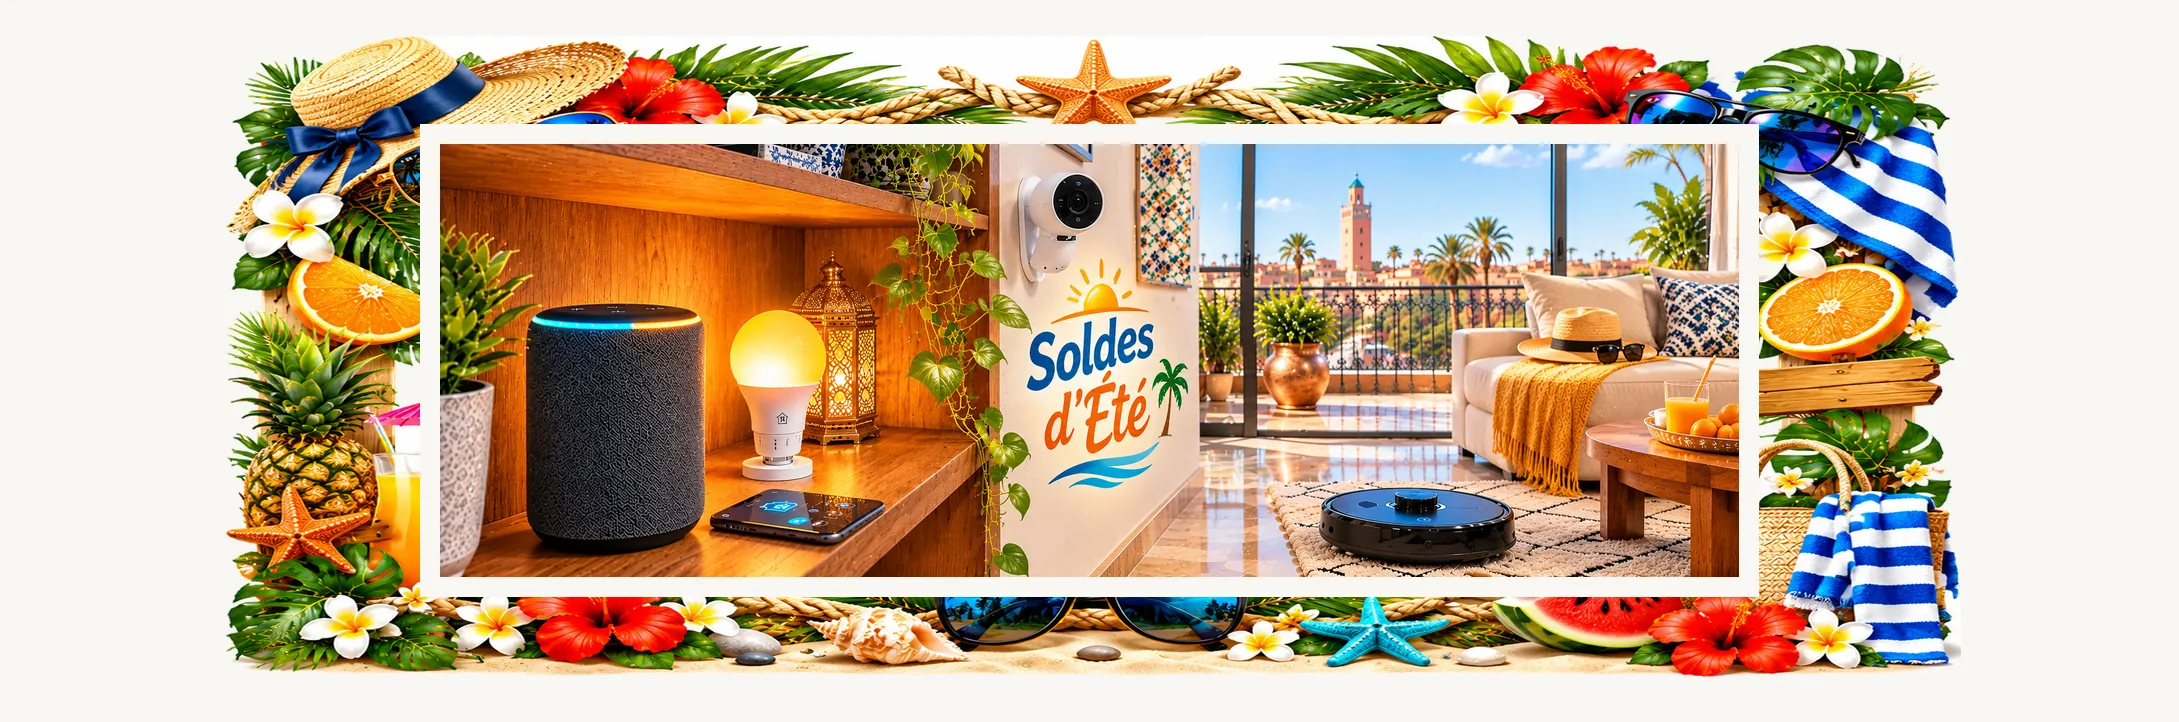
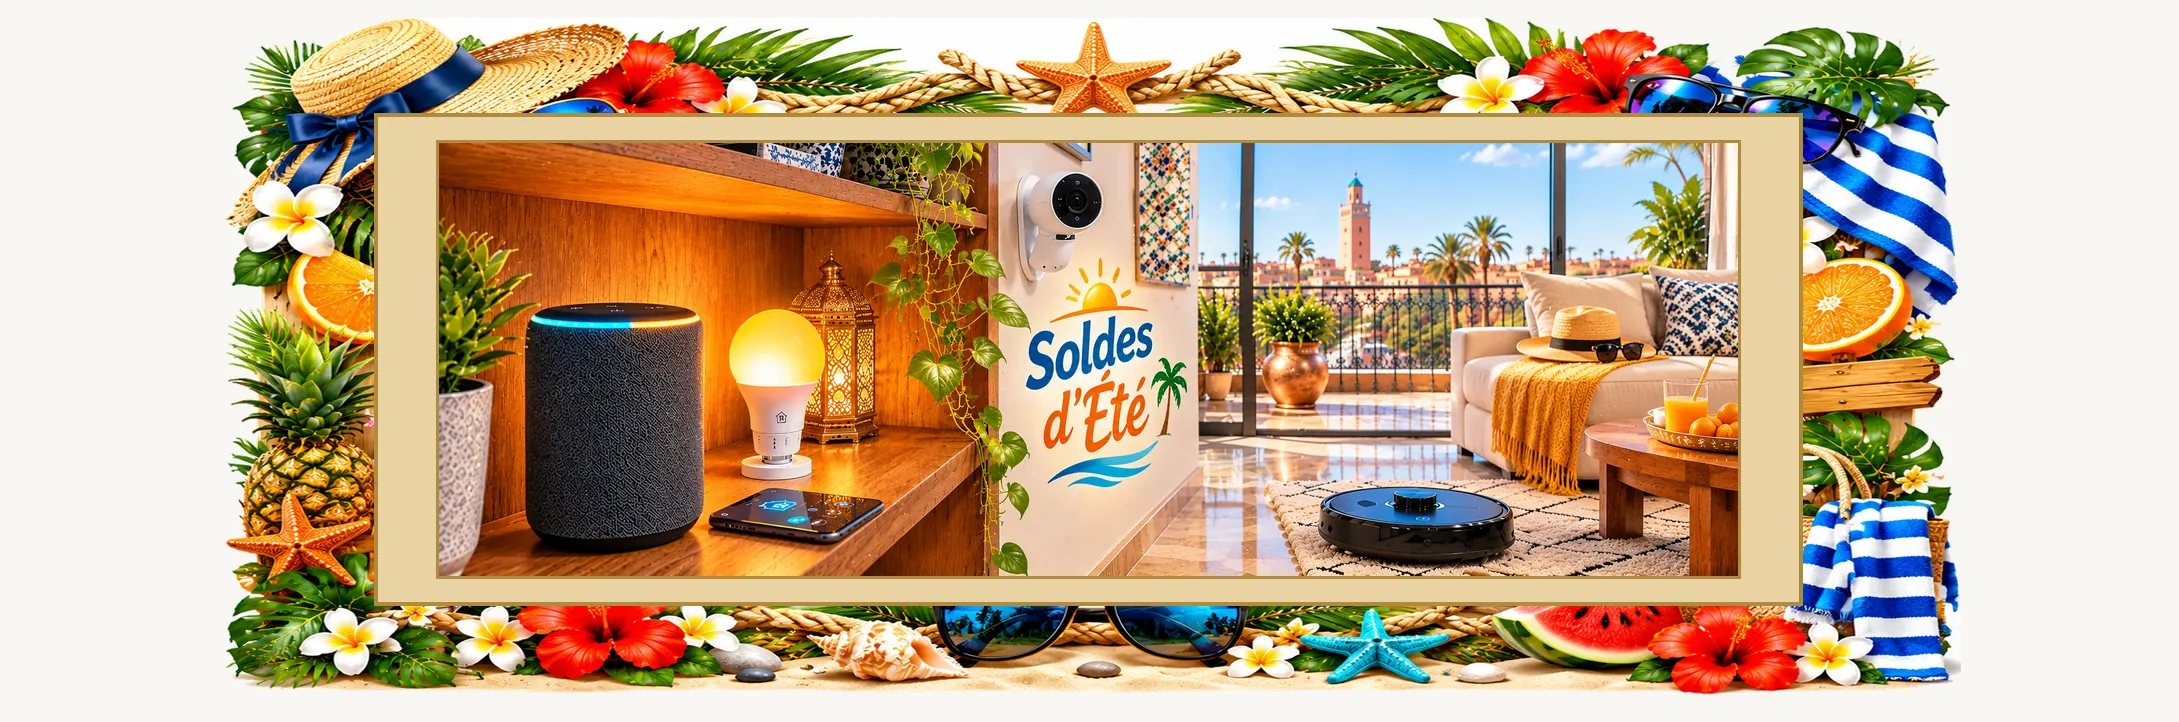
fix(events): passe-partout dore entre la photo et le cadre
- photo 60 % centree, cadre 80 % x 95 %

- passe-partout dore large + biseau autour de la photo : separation nette, aucune superposition

- ouverture du cadre videe au niveau du passe-partout

- fond creme a l'exterieur, aucun voile, banniere 2179x722

diff --git a/js/events-calendar.js b/js/events-calendar.js
@@ -38,7 +38,7 @@ export const THEME_CONFIG_PATH = { collection: "config", doc: "theme" };
  * l'afficher pendant 24 h après un remplacement de fichier.
  * À INCRÉMENTER dès que les WebP sont régénérés.
  */
-export const ASSETS_VERSION = "5";
+export const ASSETS_VERSION = "6";
 
 /**
  * URL d'un visuel d'événement, avec cache-busting.
@@ -348,9 +348,9 @@ function swapHero(event) {
   if (!original) return;
   const img = original.el;
   /* Les composites d'événement font 2179x722 (ancienne taille de
-     newphoto) : la photo occupe 60 % au centre, le cadre 80 % x 90 %
-     autour, avec une marge visible. On met à jour width/height pour
-     réserver la bonne hauteur avant le chargement (zéro CLS). */
+     newphoto) : photo 60 %, passe-partout doré, cadre 80 % x 95 %
+     autour. On met à jour width/height pour réserver la bonne hauteur
+     avant le chargement (zéro CLS). */
   img.setAttribute("src", eventImageUrl(event));
   img.setAttribute("width", "2179");
   img.setAttribute("height", "722");

diff --git a/vendor-login.html b/vendor-login.html
@@ -14,7 +14,7 @@
   <link href="https://fonts.googleapis.com/css2?family=Playfair+Display:wght@400;700&family=Inter:wght@400;500;700&family=Cairo:wght@400;600;700&family=Amiri:wght@400;700&display=swap" rel="stylesheet">
   <link rel="stylesheet" href="/css/style.081f870d.css">
   <link rel="stylesheet" href="/css/style-patches.7d81b9bd.css">
-    <link rel="stylesheet" href="/css/events.4ac8d19c.css">
+    <link rel="stylesheet" href="/css/events.d352d348.css">
   <style>
     body.vendor-login-page{min-height:100dvh;margin:0;background:var(--bg);color:var(--text);font-family:var(--font-primary);display:flex;flex-direction:column}
     .login-topbar{height:72px;display:flex;align-items:center;justify-content:space-between;gap:1rem;padding:0 clamp(1rem,5vw,4rem);background:var(--bg-card);border-bottom:1px solid var(--border)}

diff --git a/css/events.d352d348.css b/css/events.d352d348.css
@@ -29,7 +29,7 @@ html[data-event] .newphoto-banner-wrapper {
    La bannière conserve l'ancienne taille de newphoto (2179x722).
    La photo (default ou événement) occupe 60 % de la bannière et est
    centrée. Les bannières d'événement sont des composites 2179x722 :
-   photo 60 % + cadre 80 % x 90 %, avec 20 px de marge entre les deux.
+   photo 60 %, passe-partout doré, cadre 80 % x 95 % autour.
    Rien n'est superposé.
    ============================================================ */
 .newphoto-banner-wrapper {

diff --git a/events.css b/events.css
@@ -29,7 +29,7 @@ html[data-event] .newphoto-banner-wrapper {
    La bannière conserve l'ancienne taille de newphoto (2179x722).
    La photo (default ou événement) occupe 60 % de la bannière et est
    centrée. Les bannières d'événement sont des composites 2179x722 :
-   photo 60 % + cadre 80 % x 90 %, avec 20 px de marge entre les deux.
+   photo 60 %, passe-partout doré, cadre 80 % x 95 % autour.
    Rien n'est superposé.
    ============================================================ */
 .newphoto-banner-wrapper {

diff --git a/produit.html b/produit.html
@@ -53,7 +53,7 @@
 
     <link rel="stylesheet" href="/css/style.081f870d.css">
     <link rel="stylesheet" href="/css/style-patches.7d81b9bd.css">
-    <link rel="stylesheet" href="/css/events.4ac8d19c.css">
+    <link rel="stylesheet" href="/css/events.d352d348.css">
     <script src="/translations.js"></script>
 
     <!-- Clés i18n complémentaires (product-detail, guide des tailles, avis).

diff --git a/inscription-vendeur.html b/inscription-vendeur.html
@@ -34,7 +34,7 @@
 
     <link rel="stylesheet" href="/css/style.081f870d.css">
     <link rel="stylesheet" href="/css/style-patches.7d81b9bd.css">
-    <link rel="stylesheet" href="/css/events.4ac8d19c.css">
+    <link rel="stylesheet" href="/css/events.d352d348.css">
     <link rel="stylesheet" href="/vendor-style.css">
 
     <!-- Fallback critique (indépendant de vendor-style.css) -->

diff --git a/vendor/dashboard.html b/vendor/dashboard.html
@@ -33,7 +33,7 @@
 
     <link rel="stylesheet" href="/css/style.081f870d.css">
     <link rel="stylesheet" href="/css/style-patches.7d81b9bd.css">
-    <link rel="stylesheet" href="/css/events.4ac8d19c.css">
+    <link rel="stylesheet" href="/css/events.d352d348.css">
     <link rel="stylesheet" href="/vendor-style.css">
 
     <!-- Fallback critique (indépendant de vendor-style.css) -->

diff --git a/cgu-acheteur.html b/cgu-acheteur.html
@@ -28,7 +28,7 @@
 
     <link rel="stylesheet" href="/css/style.081f870d.css">
     <link rel="stylesheet" href="/css/style-patches.7d81b9bd.css">
-    <link rel="stylesheet" href="/css/events.4ac8d19c.css">
+    <link rel="stylesheet" href="/css/events.d352d348.css">
     <link rel="stylesheet" href="/css/legal.e398ae57.css">
     <script src="/translations.js"></script>
     <style>

diff --git a/cgu-vendeur.html b/cgu-vendeur.html
@@ -28,7 +28,7 @@
 
     <link rel="stylesheet" href="/css/style.081f870d.css">
     <link rel="stylesheet" href="/css/style-patches.7d81b9bd.css">
-    <link rel="stylesheet" href="/css/events.4ac8d19c.css">
+    <link rel="stylesheet" href="/css/events.d352d348.css">
     <link rel="stylesheet" href="/css/legal.e398ae57.css">
     <script src="/translations.js"></script>
     <style>

diff --git a/contrat-vendeur.html b/contrat-vendeur.html
@@ -28,7 +28,7 @@
 
     <link rel="stylesheet" href="/css/style.081f870d.css">
     <link rel="stylesheet" href="/css/style-patches.7d81b9bd.css">
-    <link rel="stylesheet" href="/css/events.4ac8d19c.css">
+    <link rel="stylesheet" href="/css/events.d352d348.css">
     <link rel="stylesheet" href="/css/legal.e398ae57.css">
     <script src="/translations.js"></script>
     <style>

diff --git a/politique-confidentialite.html b/politique-confidentialite.html
@@ -28,7 +28,7 @@
 
     <link rel="stylesheet" href="/css/style.081f870d.css">
     <link rel="stylesheet" href="/css/style-patches.7d81b9bd.css">
-    <link rel="stylesheet" href="/css/events.4ac8d19c.css">
+    <link rel="stylesheet" href="/css/events.d352d348.css">
     <link rel="stylesheet" href="/css/legal.e398ae57.css">
     <script src="/translations.js"></script>
     <style>

diff --git a/admin.html b/admin.html
@@ -39,7 +39,7 @@
 
     <link rel="stylesheet" href="/css/style.081f870d.css">
     <link rel="stylesheet" href="/css/style-patches.7d81b9bd.css">
-    <link rel="stylesheet" href="/css/events.4ac8d19c.css">
+    <link rel="stylesheet" href="/css/events.d352d348.css">
     <script src="/translations.js"></script>
     <script src="/js/translations-livo.js" defer></script>
 
